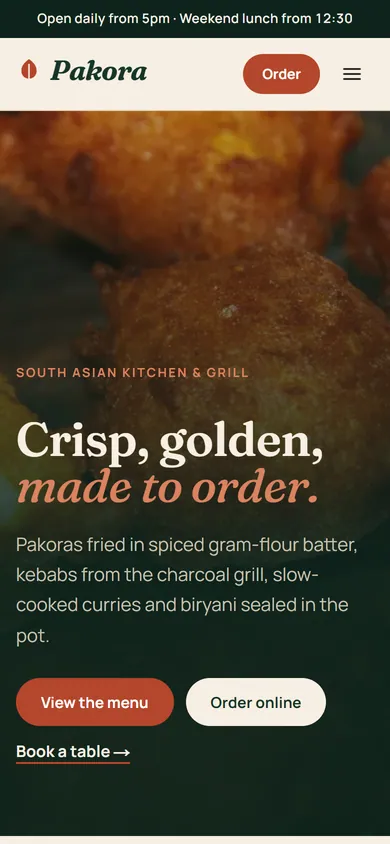
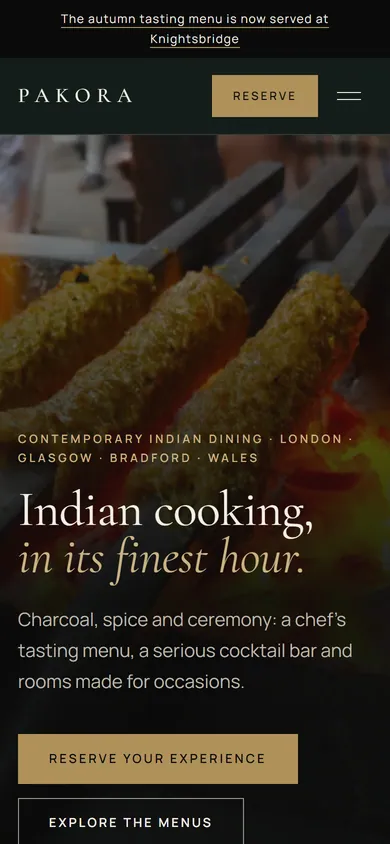
Update Pakora Restaurant portfolio entry for the luxury restaurant group concept

diff --git a/src/data/projects.ts b/src/data/projects.ts
@@ -167,26 +167,26 @@ const addiesdiveCatalogue: WebsiteProject = {
 const pakoraRestaurant: WebsiteProject = {
   slug: 'pakora-restaurant',
   title: 'Pakora Restaurant',
-  type: 'Restaurant Website',
-  description: 'A restaurant website concept demonstrating menu presentation, online ordering UI, reservation flows and responsive design.',
-  overview: 'A restaurant website concept for a fictional South Asian kitchen and grill, designed to be adapted for real restaurant clients. Pakora is not a real business: its address, contact details, menu, prices, allergens and reviews are clearly labelled sample content.',
-  built: 'A complete Next.js restaurant site with a home page, a filterable and searchable menu, a takeaway ordering interface, a reservation request form, About and Visit Us pages. The basket, quantity controls, running total and form validation all work; checkout, bookings and the contact form show clearly labelled demo states until a real ordering platform, booking provider or form service is connected. Business details, opening hours, menu, theme colours and integrations are centralised in two data files so the design can be reused for different clients.',
+  type: 'Luxury Restaurant Group Website',
+  description: 'A luxury Indian restaurant group website concept featuring an exclusive Knightsbridge flagship, multi-location browsing, fine-dining menus, signature cocktails, private dining and premium reservation journeys.',
+  overview: 'A bespoke website concept for PAKORA, a fictional luxury Indian restaurant group with a Knightsbridge flagship and branches in Glasgow, Bradford and Wales. It is designed to be adapted for real hospitality clients; every branch, address, opening time, price and menu item is clearly labelled as an illustrative placeholder.',
+  built: 'A Next.js site with an editorial homepage, a tabbed menu system (tasting menu, à la carte, seasonal, desserts and alcohol-free) with dietary and location filters, a cocktails and bar page with food pairings, experiences and private dining pages with enquiry forms, and a page for each branch. The reservation journey uses each branch’s own hours and rules, and itemises refundable deposits, non-refundable booking fees and minimum spends before confirmation. It runs as a clearly labelled demo, structured for a real booking provider and server-side payments. Brand, branches, menus, drinks, experiences and deposit rules are all centralised in configuration files.',
   features: [
-    'Menu with category, vegetarian and vegan filters, search, prices and allergen notes',
-    'Takeaway ordering UI with quantity controls, item removal, running total and demo checkout',
-    'Reservation form validated against opening hours, with a demo confirmation',
-    'Contact form with validation and honest success, error and demo states',
-    'Configurable business details, hours, theme colours and integrations for reuse',
-    'Responsive, keyboard-accessible layouts with local SEO metadata and a social sharing image',
+    'Knightsbridge flagship and branch pages with their own hours, menus, booking rules and private rooms',
+    'Reservation journey with configurable deposits, booking fees, minimum spends and cancellation terms',
+    'Chef’s tasting menu, à la carte and seasonal menus with dietary, search and location filters',
+    'Cocktails and bar page with signature drinks, glassware details, pairings and an alcohol-free list',
+    'Private dining, chef’s table, celebrations and gift experience enquiries with honest demo states',
+    'Reusable configuration for brand, theme, branches, menus, drinks and reservation rules',
   ],
   url: 'https://pakora-restaurant.vercel.app/',
   image: '/images/portfolio/pakora-restaurant-desktop-1600.webp',
-  alt: 'Pakora Restaurant homepage hero with crisp onion pakoras',
+  alt: 'PAKORA homepage hero: seekh kebabs over charcoal with the line Indian cooking, in its finest hour',
   gallery: [
-    { src: '/images/portfolio/pakora-restaurant-order-1440.webp', alt: 'Pakora ordering page with menu sections, add buttons and a basket showing quantities, subtotal and a demo checkout' },
-    { src: '/images/portfolio/pakora-restaurant-menu-1440.webp', alt: 'Pakora menu page with search, category and dietary filters, prices and allergen notes' },
+    { src: '/images/portfolio/pakora-restaurant-reservations-1440.webp', alt: 'PAKORA reservation journey with branch selection, experience, date and guests, and a summary showing a refundable tasting menu deposit' },
+    { src: '/images/portfolio/pakora-restaurant-cocktails-1440.webp', alt: 'PAKORA cocktails page listing signature cocktails with prices and glassware' },
   ],
-  metaDescription: 'Pakora Restaurant: a restaurant website concept with menu filters, an online ordering UI, reservation flows and responsive design, built by HK Creative Web.',
+  metaDescription: 'Pakora Restaurant: a luxury Indian restaurant group website concept with a Knightsbridge flagship, fine-dining menus, signature cocktails, private dining and reservation journeys with transparent deposits.',
   services: ['Website design', 'Web development'],
   technologies: ['Next.js', 'React', 'TypeScript'],
 }
